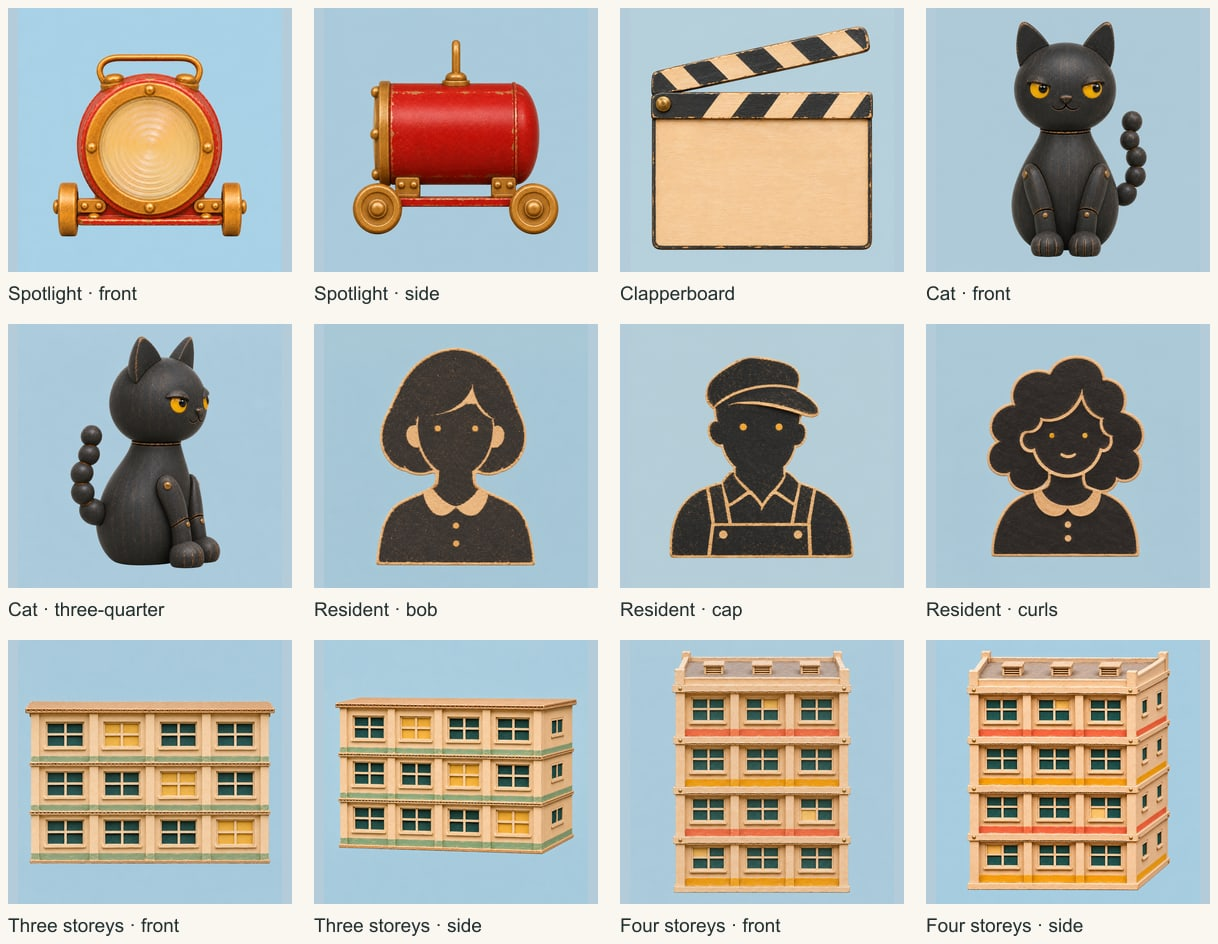
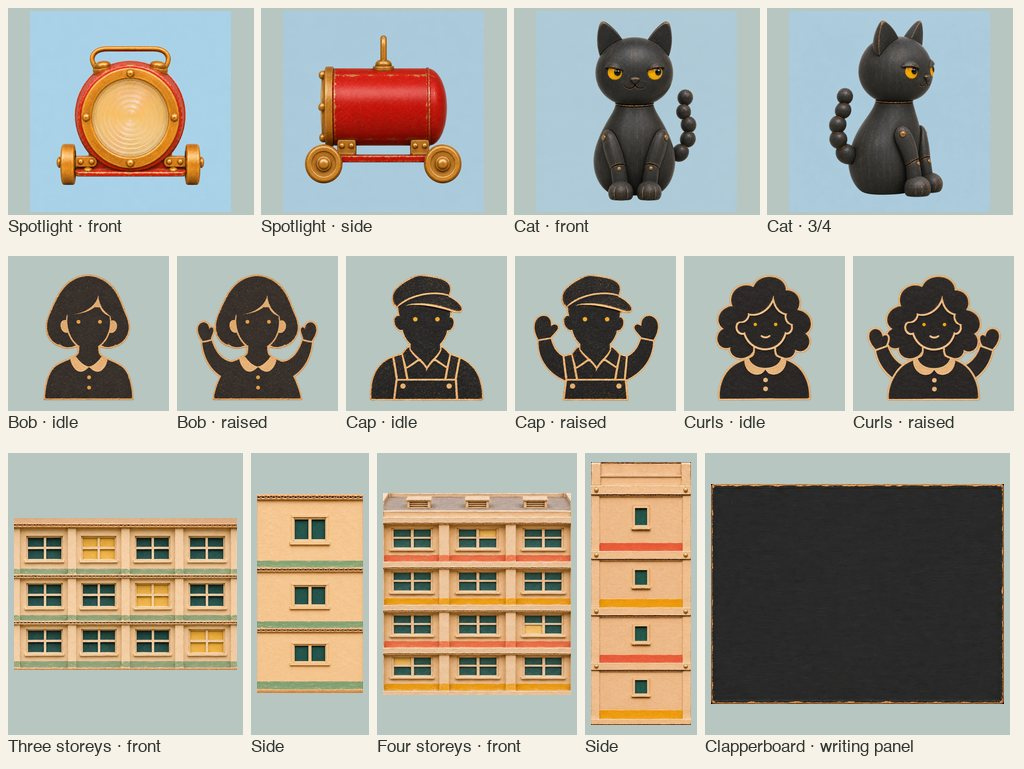
Prepare animated paper residents, orthographic wall maps, and a working slate texture

diff --git a/docs/art-brief.md b/docs/art-brief.md
@@ -38,38 +38,21 @@
 | `floor` | 1024 × 1024 | 片场木地板，**四方连续可平铺**。俯视，木纹竖向。不要高光和阴影 |
 | `sky` | 2048 × 1024 | 夜空加远处城市天际线的手绘背景板，像剧场的天幕。下三分之一是楼群剪影和零星亮窗，有一轮月亮 |
 
-## 第 2 批：3D 模型（用 Meshy 生成）
+## 第 2 批 · 道具与角色
 
-项目负责人已有 Meshy 账号，模型用 Meshy 的图转 3D 生成。流程是：先用 GPT Image 出每个道具的参考图，再用 Meshy 的接口把参考图变成模型，下载 GLB 放进仓库。
+[素材总览和逐件下载](art-prompts/scene02-model-references.md)
 
-### 哪些做成模型，哪些不做
-
-| 道具 | 做法 | 原因 |
+| 道具 | 素材 | 接入方式 |
 |---|---|---|
-| 发条鸭 | **不用 Meshy**，由代码按概念图的比例用椭球搭 | 它的影子要被判定。画面和判定必须是同一套形状，见 `src/sim/light.ts` 的 `DUCK` |
-| 窗、窗台 | 不用 Meshy，继续用代码画 | 28 扇一模一样的窗，方盒子足够，还省面数 |
-| 聚光灯、场记板、黑猫、纸片居民、邻楼 | 用 Meshy | 不参与判定，形状细节越像概念图越好 |
+| 聚光灯 | `lamp.glb`，高 8 cm、宽 7.5 cm、长 9 cm | Meshy 双视图生成。红搪瓷灯身和黄铜底盘，车轮贴桌，镜片中心离桌 4 cm |
+| 黑猫 | `cat.glb`，目标高约 8 cm | Meshy 双视图生成。木偶身体、圆头、尖耳和珠串尾巴，接入时核对判定用的头身轮廓 |
+| 纸片居民 | 三个人物，每人一张常态和一张举手的透明 PNG | 九个实例，每人一个平面，根据受惊动画切换贴图，沿用窗口中的升降 |
+| 邻楼 | 三层、四层各一张正立面和一张正侧面 WebP | 四栋楼各用一个盒子和屋顶。正立面贴朝向观众的一面，窄侧面复用于左右两侧，按楼层对齐 |
+| 场记板 | 一张 4∶3 的板面 WebP | 作为游戏画布的底图，再由游戏绘制场次、拍次和提示。条纹、铰链位置与摆动由代码控制 |
+| 发条鸭 | 概念图和 `src/sim/light.ts` 中的 `DUCK` | 由代码构造。投影、粉笔轮廓与判定共用几何形状 |
+| 窗和窗台 | 28 扇窗和窗台 | 由代码构造，主楼表面保持平整，接收鸭子的投影 |
 
-### 每个模型的要求
-
-| 模型 | 文件 | 实际大小 | 要点 |
-|---|---|---|---|
-| 聚光灯 | `lamp.glb` | 高 8 cm，宽 7.5 cm，长 9 cm | 轨道小车上的矮脚小聚光灯，红色搪瓷，黄铜包边和铆钉。镜片朝前，**镜片中心离桌面 4 cm**（这是模拟里光源的高度，不能高）。概念图里灯头架得偏高，请压低 |
-| 场记板 | `clapper.glb` | 宽 16 cm，高 14 cm | 板面和条纹打板臂。**板面留空**，文字由游戏写。打板臂最好是可分离的一块，做不到就整体一块，由代码处理 |
-| 黑猫 | `cat.glb` | 高 8 cm | 蹲坐的木偶猫，面朝前，耳朵尖，尾巴是一串木珠。黄眼睛 |
-| 纸片居民 × 3 | `resident-1.glb` 到 `-3.glb` | 高 5 cm | 半身小人，三种发型或帽子。深色剪影风格 |
-| 邻楼 × 2 | `block-a.glb`、`block-b.glb` | 高 30 到 44 cm | 简单的纸板盒楼，带手绘色带和小窗。只需要正面和两个侧面好看 |
-
-第三拍的猫蹲在两列窗之间的小窗台上（第三层，从左数第五、六扇窗之间），不再有霓虹招牌，所以招牌不用做。
-
-### 参考图怎么出
-
-每个道具出 1 到 4 张图，喂给 Meshy 的多图接口。**第一张必须是正面**，其余是侧面、背面、四分之三视角，顺序不限。
-
-- 纯色背景（浅灰或浅蓝），物体居中、完整入画、不裁切。
-- 平光，不要投影，不要地面，不要其他物体。
-- 几张图里是同一个物体、同一比例、同一配色。
-- 风格对照 `docs/concept/` 里的三张定稿图。
+第三拍的猫在第三层从左数第五、第六扇窗之间。黑猫和聚光灯各有两张 1024 像素参考图，第一张是正面。三位居民、两栋邻楼和场记板的贴图位于 `public/assets/props/`。
 
 ### Meshy 接口参数
 
@@ -84,30 +67,29 @@
 | `target_formats` | `["glb"]` | 只导出游戏接入所用格式 |
 | `should_remesh` | `true` | 不重拓扑的话面数不受控 |
 | `topology` | `triangle` | |
-| `target_polycount` | 灯 6000；猫 5000；场记板 2000；居民每个 800；邻楼每栋 800 | 见下方“面数预算”，按出镜的个数算 |
+| `target_polycount` | 聚光灯 6000，黑猫 5000 | 见下方“面数预算”，按出镜的个数算 |
 | `should_texture` | `true` | |
 | `enable_pbr` | `true` | 需要金属度和粗糙度贴图，搪瓷和黄铜才有区别 |
 | `texture_resolution` | `2k` | 下载后贴图缩到 1024，每个 GLB 控制在 1.5 MB 以内 |
 
 [Meshy 多图转 3D 参数](https://docs.meshy.ai/en/api/multi-image-to-3d)
 
-面数预算（三角面，按实际出镜的个数算）：
+### 场景三角面预算
 
-| 项目 | 个数 | 每个 | 合计 |
-|---|---|---|---|
-| 聚光灯 | 1 | 6000 | 6000 |
-| 黑猫 | 1 | 5000 | 5000 |
-| 场记板 | 1 | 2000 | 2000 |
-| 纸片居民 | 9（三种模型各用三次） | 800 | 7200 |
-| 邻楼 | 4（两种模型各用两次） | 800 | 3200 |
-| 代码搭的部分：鸭子、主楼、28 扇窗、桌子、轨道 | | | 13497 |
-| **整场** | | | **36897，上限 50000** |
+| 项目 | 实例 | 每个 | 三角面 |
+|---|---:|---:|---:|
+| 聚光灯和黑猫 | 各 1 | 6000、5000 | 11000 |
+| 场记板 | 1 | 4 个盒子，各 12 面 | 48 |
+| 居民 | 9 | 2 | 18 |
+| 邻楼与屋顶 | 4 | 2 个盒子，各 12 面 | 96 |
+| 鸭、主楼、窗、桌面、轨道及其他现有几何 | | | 13497 |
+| **整场预计** | | | **24659** |
 
-按提交 `9ef206d` 的实际场景网格逐实例计数，现有片场为 25,173 个三角面，含装饰的整只鸭子为 10,920 面。假定整组替换灯、猫、场记板、居民和邻楼，余下 13,497 面；表中 GLB 共预留 23,400 面。重拓扑结果可能偏离目标，接入后按实物复算，并在真 iPad 上测帧率。
+在 `9ef206d` 按实例实测，现有片场为 25,173 面，含装饰的鸭子为 10,920 面。扣除灯、猫、场记板、居民和邻楼的旧几何后为 13,497 面。上表按两份 GLB 均用满预算估算。最终验收以接入后的实物面数和真 iPad 帧率为准，整场目标上限为 50,000 面。
 
 调用和下载
 
-- API 需要支持该功能的付费套餐和预充值的 API 额度。表中模型配标准几何、2K 贴图时每次 30 点，纯网格 20 点。8 件各做一次为 240 点，各做三次为 720 点。先做首件可以用 30 点验证比例、材质和接入效果。[套餐](https://help.meshy.ai/en/articles/15696428-what-is-included-on-the-free-plan) · [API 计价](https://docs.meshy.ai/en/api/pricing)
+- API 需要支持该功能的付费套餐和预充值的 API 额度。表中模型配标准几何、2K 贴图时每次 30 点，纯网格 20 点。灯和猫各做一次约 60 点，各做三次约 180 点。先做首件可以用 30 点验证比例、材质和接入效果。[套餐](https://help.meshy.ai/en/articles/15696428-what-is-included-on-the-free-plan) · [API 计价](https://docs.meshy.ai/en/api/pricing)
 - 普通 API 任务的文件最多保留 3 天。任务到达 `SUCCEEDED` 后下载 `model_urls.glb` 和 `thumbnail_url`，签名链接的有效期以任务的 `expires_at` 为准。[文件保留和链接有效期](https://docs.meshy.ai/en/api/asset-retention)
 - 密钥在 https://www.meshy.ai/developers/keys 创建，建议给它设一个每月额度上限。密钥只放在本机的环境变量里（例如 `MESHY_API_KEY`），**不要写进任何文件、提交记录、PR 或聊天消息**。
 
@@ -124,6 +106,8 @@
 
 灯：轮子接触面落在桌面后，测量 GLB 的镜片中心。整灯高 8 cm 时，镜片离桌面必须是 4 cm，横向对准轨道中心，并与模拟光源的深度对齐。如果导出的灯身比例有偏差，调整灯身在底盘上的安装位置，再复测。灯的模型不投影（否则会挡住自己的光）。
 
+黑猫接入后在正面轮廓上叠加 `CAT` 的身体椭球和头球，并复测取样点与可见表面的受影比例。两组回归位置为灯 61.5、鸭 −1.5 和灯 58.5、鸭 +7.5。另验第三拍目标（66、−0.5）以及轮廓达标但猫受遮挡的（62、0）和（64、0.5）。若模型比例需要改动，同步调整判定几何并复跑三拍。[关卡参数及猫的取样](../src/game/scene02.ts)
+
 立面保留平整的受影面，纸纤维和手绘色带进入贴图。
 
 ## 第 3 批：界面与图标
@@ -136,6 +120,6 @@
 
 ## 交付与验收
 
-1. PNG，sRGB，8 位。贴图不透明；界面元素真透明背景。
+1. 贴图采用 8 位 sRGB。居民和界面剪影使用带透明通道的 PNG，道具板面使用 WebP，模型参考图提供 JPEG。
 2. 文件名、尺寸与上表一致。每批的提示词存到 `docs/art-prompts/`。
 3. 贴图放进去后运行 `npm run smoke`，全部通过，并检查 `qa-out/` 里的截图：影子在灯最远和最近时都清晰，贴图没有接缝、白边和画进去的阴影。

diff --git a/docs/art-prompts/scene02-model-references.md b/docs/art-prompts/scene02-model-references.md
@@ -1,17 +1,32 @@
-# 第 02 场道具参考图
+# 第 02 场道具素材
 
-这组图供 Meshy 生成微缩片场道具。先用聚光灯验证比例、材质和加载。其余七件有各自的正面图。[整组预览](previews/scene02-model-references.jpg)
+聚光灯和黑猫使用多视图重建。其余六件道具通过平面与盒子贴图接入。下表链接到实际交付文件。[总览](previews/scene02-model-references.jpg)
 
-| 道具 | 首张输入 | 补充视角 |
+| 道具 | 文件 | 用途 |
 | --- | --- | --- |
-| 聚光灯 | [正面](scene02-models/lamp-front.png) | [侧面](scene02-models/lamp-side.png) |
-| 场记板 | [正面](scene02-models/clapper-front.png) | 单图 |
-| 黑猫 | [正面](scene02-models/cat-front.png) | [侧面斜视](scene02-models/cat-three-quarter.png) |
-| 短发居民 | [正面](scene02-models/resident-1-front.png) | 单图 |
-| 鸭舌帽居民 | [正面](scene02-models/resident-2-front.png) | 单图 |
-| 卷发居民 | [正面](scene02-models/resident-3-front.png) | 单图 |
-| 三层邻楼 | [正面](scene02-models/block-a-front.png) | [侧前方](scene02-models/block-a-three-quarter.png) |
-| 四层邻楼 | [正面](scene02-models/block-b-front.png) | [侧前方](scene02-models/block-b-three-quarter.png) |
+| 聚光灯 | [正面](scene02-models/lamp-front.jpg) · [侧面](scene02-models/lamp-side.jpg) | 一对模型参考，1024 × 1024 |
+| 黑猫 | [正面](scene02-models/cat-front.jpg) · [侧后方](scene02-models/cat-three-quarter.jpg) | 一对模型参考，1024 × 1024 |
+| 短发居民 | [常态](../../public/assets/props/resident-1-idle.png) · [举手](../../public/assets/props/resident-1-raised.png) | 单个平面上的两个姿势 |
+| 鸭舌帽居民 | [常态](../../public/assets/props/resident-2-idle.png) · [举手](../../public/assets/props/resident-2-raised.png) | 单个平面上的两个姿势 |
+| 卷发居民 | [常态](../../public/assets/props/resident-3-idle.png) · [举手](../../public/assets/props/resident-3-raised.png) | 单个平面上的两个姿势 |
+| 三层邻楼 | [正面](../../public/assets/props/block-a-front.webp) · [侧面](../../public/assets/props/block-a-side.webp) | 880 × 600 与 320 × 600 |
+| 四层邻楼 | [正面](../../public/assets/props/block-b-front.webp) · [侧面](../../public/assets/props/block-b-side.webp) | 780 × 840 与 320 × 840 |
+| 场记板 | [固定板面](../../public/assets/props/clapper-board.webp) | 768 × 576，动态文字的底图 |
+
+## 贴图接入
+
+- 居民的六张 PNG 都是 384 × 384。半身像的底边在第 364 行左右，水平中心在第 192 列。每次换姿势只切换同一平面的颜色贴图。受惊时沿用 `up` 的节奏与下沉运动；将旧手臂对象的动画改为换帧。使用 sRGB 和透明通道，在窗玻璃前检查剪纸边缘。
+- 邻楼的 UV 原点和朝向沿用 Three.js 的盒子几何，各面使用完整的 0–1 区间。正面和侧面的每条色带已对齐到相同的相对高度。侧面可复用于两侧；屋顶、背面和底面可沿用纯色。
+- 场记板贴图用于 `buildClapper().paint()` 的画布。每一拍先画底图，再画边框、文字与拍次。板面保持深色，使现有浅色字可读。活动打板臂和固定条纹条各有自己的几何体。
+- 运行时素材合计约 1.2 MB。模型参考和总览仅供制作。完整的原始 PNG 在本机留存，仓库中的 JPEG 可直接作为 Meshy 输入。
+
+## 贴图生成说明
+
+居民使用每位人物原来的正面作为身份参考。生成一张左右双格的透明图，同一件剪纸、同一正面镜头，左格为常态，右格为双手举至耳侧，发型、眼睛、纸边、衣领与胸像底边对齐。导出时按衣身底边中心和共同的头顶高度对齐两帧，保留原生透明通道。
+
+邻楼以原有正面与侧前方造型图为参考，生成单独的侧墙正投影视图。三层楼每层一扇小窗、灰绿色带，四层楼采用赭黄与珊瑚色交替。两侧颜色延续到墙边，正面从原图裁出建筑表面，侧面逐层对齐色带高度。
+
+场记板以原参考图的木质旧边为依据，生成满幅 4∶3 深炭灰板面。中央留出均匀的书写区，边缘仅有轻微磨损。游戏在上面绘制文字和标线。
 
 ## 聚光灯的接入尺寸
 
@@ -21,7 +36,7 @@
 
 每张图都以已采纳的片场、发条鸭和纸板立面设定图作为材质参考。补充视角同时使用对应道具的正面，聚光灯按下列修订过程出图。[片场](../concept/tabletop-set.png) · [发条鸭](../concept/wind-up-duck.png) · [纸板立面](../concept/cardboard-facade.png)
 
-### 七件道具共用的正面说明
+### 原始道具正面的共用说明
 
 An isolated handmade miniature prop for image-to-3D reconstruction, straight-on FRONT elevation, full object entirely visible and centered on a solid uniform light blue-gray background. Flat soft light, no floor plane or cast shadow, no labels, text, watermarks or props. Square frame. Three approved reference sheets establish one common world: the tabletop miniature in the first, painted enamel or wood in the second, layered warm paper material in the third. Output a SINGLE object only, never a contact sheet.
 
